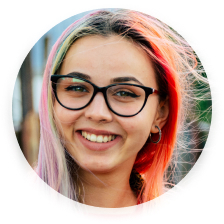
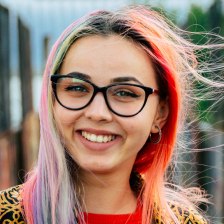
Ajustement

diff --git a/scripts/pages/photographer.js b/scripts/pages/photographer.js
@@ -6,7 +6,6 @@ function getURLParam() {
 		search = search.substring(1);
 	}
 	if (search && search.endsWith("=")) {
-		// Supprimez le signe égal à la fin
 		search = search.slice(0, -1);
 	}
 	return search;
@@ -43,14 +42,13 @@ async function infoPhotographer(photographers, media) {
 			function displayPhotographerMedias(listPhotographer) {
 				mediaContainer.innerHTML = "";
 				listPhotographer.forEach(mediaItem => {
-					// eslint-disable-next-line no-undef
-					const mediaModel = mediaTemplate(mediaItem);
+				
+					const mediaModel = window.mediaTemplate(mediaItem);
 					const mediasPageDOM = mediaModel.mediaFactory(photographer.name);
 					mediaContainer.appendChild(mediasPageDOM);
 
 					const numberLikes = mediasPageDOM.querySelector(".likes-media");
 					const buttonLike = mediasPageDOM.querySelector(".card-photographer-button");
-					// const totalLikes = photographerMedias.reduce((total, mediaItem) => total + mediaItem.likes, 0);
 					// eslint-disable-next-line no-undef
 					buttonLike.addEventListener("click", () => toggleLike(mediaItem.likes, mediaItem.id, numberLikes));
 
@@ -58,8 +56,7 @@ async function infoPhotographer(photographers, media) {
 					const mediaContent = mediasPageDOM.querySelector(".card-media");
 					mediaContent.addEventListener("click", () => {
 						const index = photographerMedias.indexOf(mediaItem);
-						// eslint-disable-next-line no-undef
-						displayMediaLightbox(photographerMedias, index, photographer);
+						window.displayMediaLightbox(photographerMedias, index, photographer);
 					});
 
 				});
@@ -76,11 +73,12 @@ async function infoPhotographer(photographers, media) {
 			const h2Form = document.querySelector(".modal-title");
 			h2Form.textContent +=  ` ${photographer.name}`;
 
-			/* global sort */
 			const select = document.getElementById("sort");
 			select.addEventListener("change",  function() {
-				sort(select.value, photographerMedias, displayPhotographerMedias);
+				window.sort(select.value, photographerMedias, displayPhotographerMedias);
 			});
+		} else {
+			window.location.href = "/";
 		}
 
 	} catch(error) {

diff --git a/scripts/templates/photographer.js b/scripts/templates/photographer.js
@@ -1,5 +1,4 @@
-// eslint-disable-next-line no-unused-vars
-function photographerTemplate(data) {
+const photographerTemplate = function(data) {
 	const { name, portrait, city, country, tagline, price, id } = data;
 
 	const picture = `assets/photographers/${portrait}`;
@@ -76,8 +75,8 @@ function photographerTemplate(data) {
 		button.classList.add("contact_modal");
 		button.textContent = "Contactez-moi";
 
-		// eslint-disable-next-line no-undef
-		button.addEventListener("click", displayModal);
+	
+		button.addEventListener("click", window.displayModal);
 
 		const img = document.createElement( "img" );
 		img.setAttribute("src", picture);
@@ -120,4 +119,6 @@ function photographerTemplate(data) {
 	}
 
 	return { name, picture, city, country, tagline, price, id, getUserCardDOM, getPhotographerPageDOM, getPhotographerLikes};
-}
+};
+
+window.photographerTemplate = photographerTemplate;

diff --git a/scripts/templates/medias.js b/scripts/templates/medias.js
@@ -1,5 +1,4 @@
-// eslint-disable-next-line no-unused-vars
-function mediaTemplate(data) {
+const mediaTemplate = function(data) {
 	const { title, image, video, likes, price, id } = data;
 
 	function mediaFactory(photographerName) {
@@ -49,8 +48,6 @@ function mediaTemplate(data) {
 		cardFooter.appendChild(titleImg);
 		cardFooter.appendChild(buttonLike);
 
-		// buttonLike.addEventListener('click',() => toggleLike(likes, id, numberLikes));
-
 		return (article);
 	}
 
@@ -93,10 +90,10 @@ function mediaTemplate(data) {
 		cardFooter.appendChild(titleImg);
 		cardFooter.appendChild(buttonLike);
 
-		// buttonLike.addEventListener('click', () => toggleLike(likes, id, numberLikes));
-
 		return (article);
 	}
 
 	return { title, image, video, likes, price, id, mediaFactory, getImagePhotographer, getVideoPhotographer };
-}
+};
+
+window.mediaTemplate = mediaTemplate;

diff --git a/scripts/utils/contactForm.js b/scripts/utils/contactForm.js
@@ -1,5 +1,4 @@
-// eslint-disable-next-line no-unused-vars
-function displayModal() {
+const displayModal = function() {
 	const modal = document.getElementById("contact_modal");
 	const main = document.getElementById("main");
 
@@ -9,7 +8,7 @@ function displayModal() {
 
 	const inputPrenom = document.getElementById("prenom");
 	inputPrenom.focus();
-}
+};
 
 function closeModal() {
 	const modal = document.getElementById("contact_modal");
@@ -123,3 +122,5 @@ form.addEventListener("keydown", function(event) {
 		submitForm(event); 
 	}
 });
+
+window.displayModal = displayModal;

diff --git a/scripts/pages/index.js b/scripts/pages/index.js
@@ -8,8 +8,7 @@ async function displayData(photographers) {
 	const photographersSection = document.querySelector(".photographer_section");
 
 	photographers.forEach((photographer) => {
-		// eslint-disable-next-line no-undef
-		const photographerModel = photographerTemplate(photographer);
+		const photographerModel = window.photographerTemplate(photographer);
 		const userCardDOM = photographerModel.getUserCardDOM();
 		photographersSection.appendChild(userCardDOM);
 	});

diff --git a/css/photographer.css b/css/photographer.css
@@ -117,6 +117,8 @@ form input:focus, form textarea:focus {
 
 .photograph-header img {
     margin-right:50px;
+    border-radius:200px;
+    box-shadow: rgba(149, 157, 165, 0.2) 0px 8px 24px;
 }
 
 .photographer-section {

diff --git a/css/style.css b/css/style.css
@@ -48,6 +48,8 @@ h1 {
 .photographer_section article img {
     height: 200px;
     width: 200px;
+    border-radius:200px;
+    box-shadow: rgba(149, 157, 165, 0.2) 0px 8px 24px;
 }
 
 .photographer_section article a {

diff --git a/scripts/utils/lightbox.js b/scripts/utils/lightbox.js
@@ -1,6 +1,5 @@
 // eslint-disable-next-line no-unused-vars
 function displayMediaLightbox(arrayMedia, index, photographer) {
-	// Display modal
 	displayLightboxModal();
 
 	const currentMedia = arrayMedia[index];
